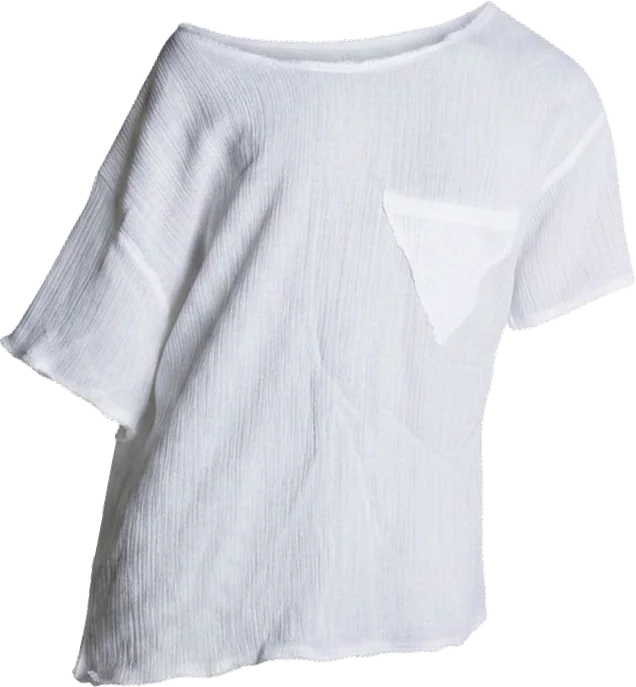
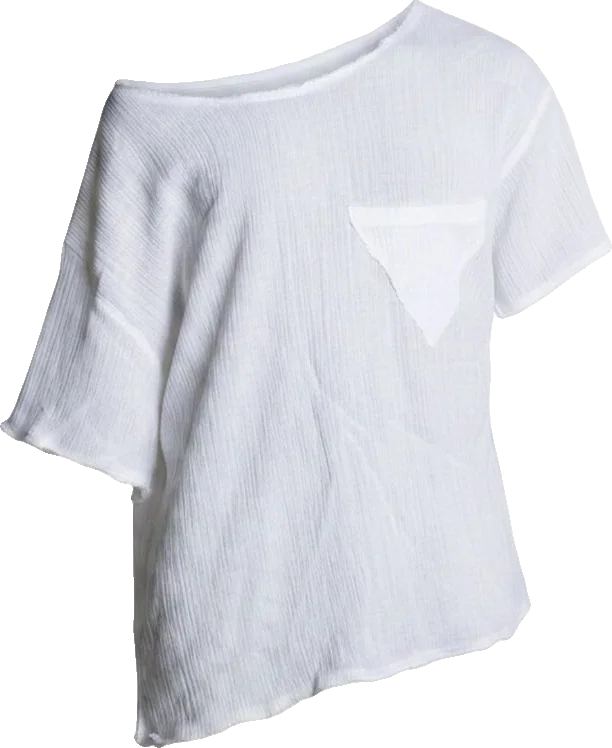
Fix hero footer row; faithful Vajra cut

diff --git a/artifact.html b/artifact.html
@@ -364,6 +364,7 @@ img,video,svg{display:block}
 .fx-dim .fx-pat{opacity:.11}
 .fx-dim .fx-grain{opacity:.16}
 .v-piece .p-photo,.v-piece .p-info{z-index:1}
+.hero .foot>*{grid-row:1}
 </style>
 <div id="app" data-view="home">
 

diff --git a/index.html b/index.html
@@ -369,6 +369,7 @@ img,video,svg{display:block}
 .fx-dim .fx-pat{opacity:.11}
 .fx-dim .fx-grain{opacity:.16}
 .v-piece .p-photo,.v-piece .p-info{z-index:1}
+.hero .foot>*{grid-row:1}
 </style>
 </head>
 <body>

diff --git a/src/styles.css b/src/styles.css
@@ -359,3 +359,4 @@ img,video,svg{display:block}
 .fx-dim .fx-pat{opacity:.11}
 .fx-dim .fx-grain{opacity:.16}
 .v-piece .p-photo,.v-piece .p-info{z-index:1}
+.hero .foot>*{grid-row:1}
